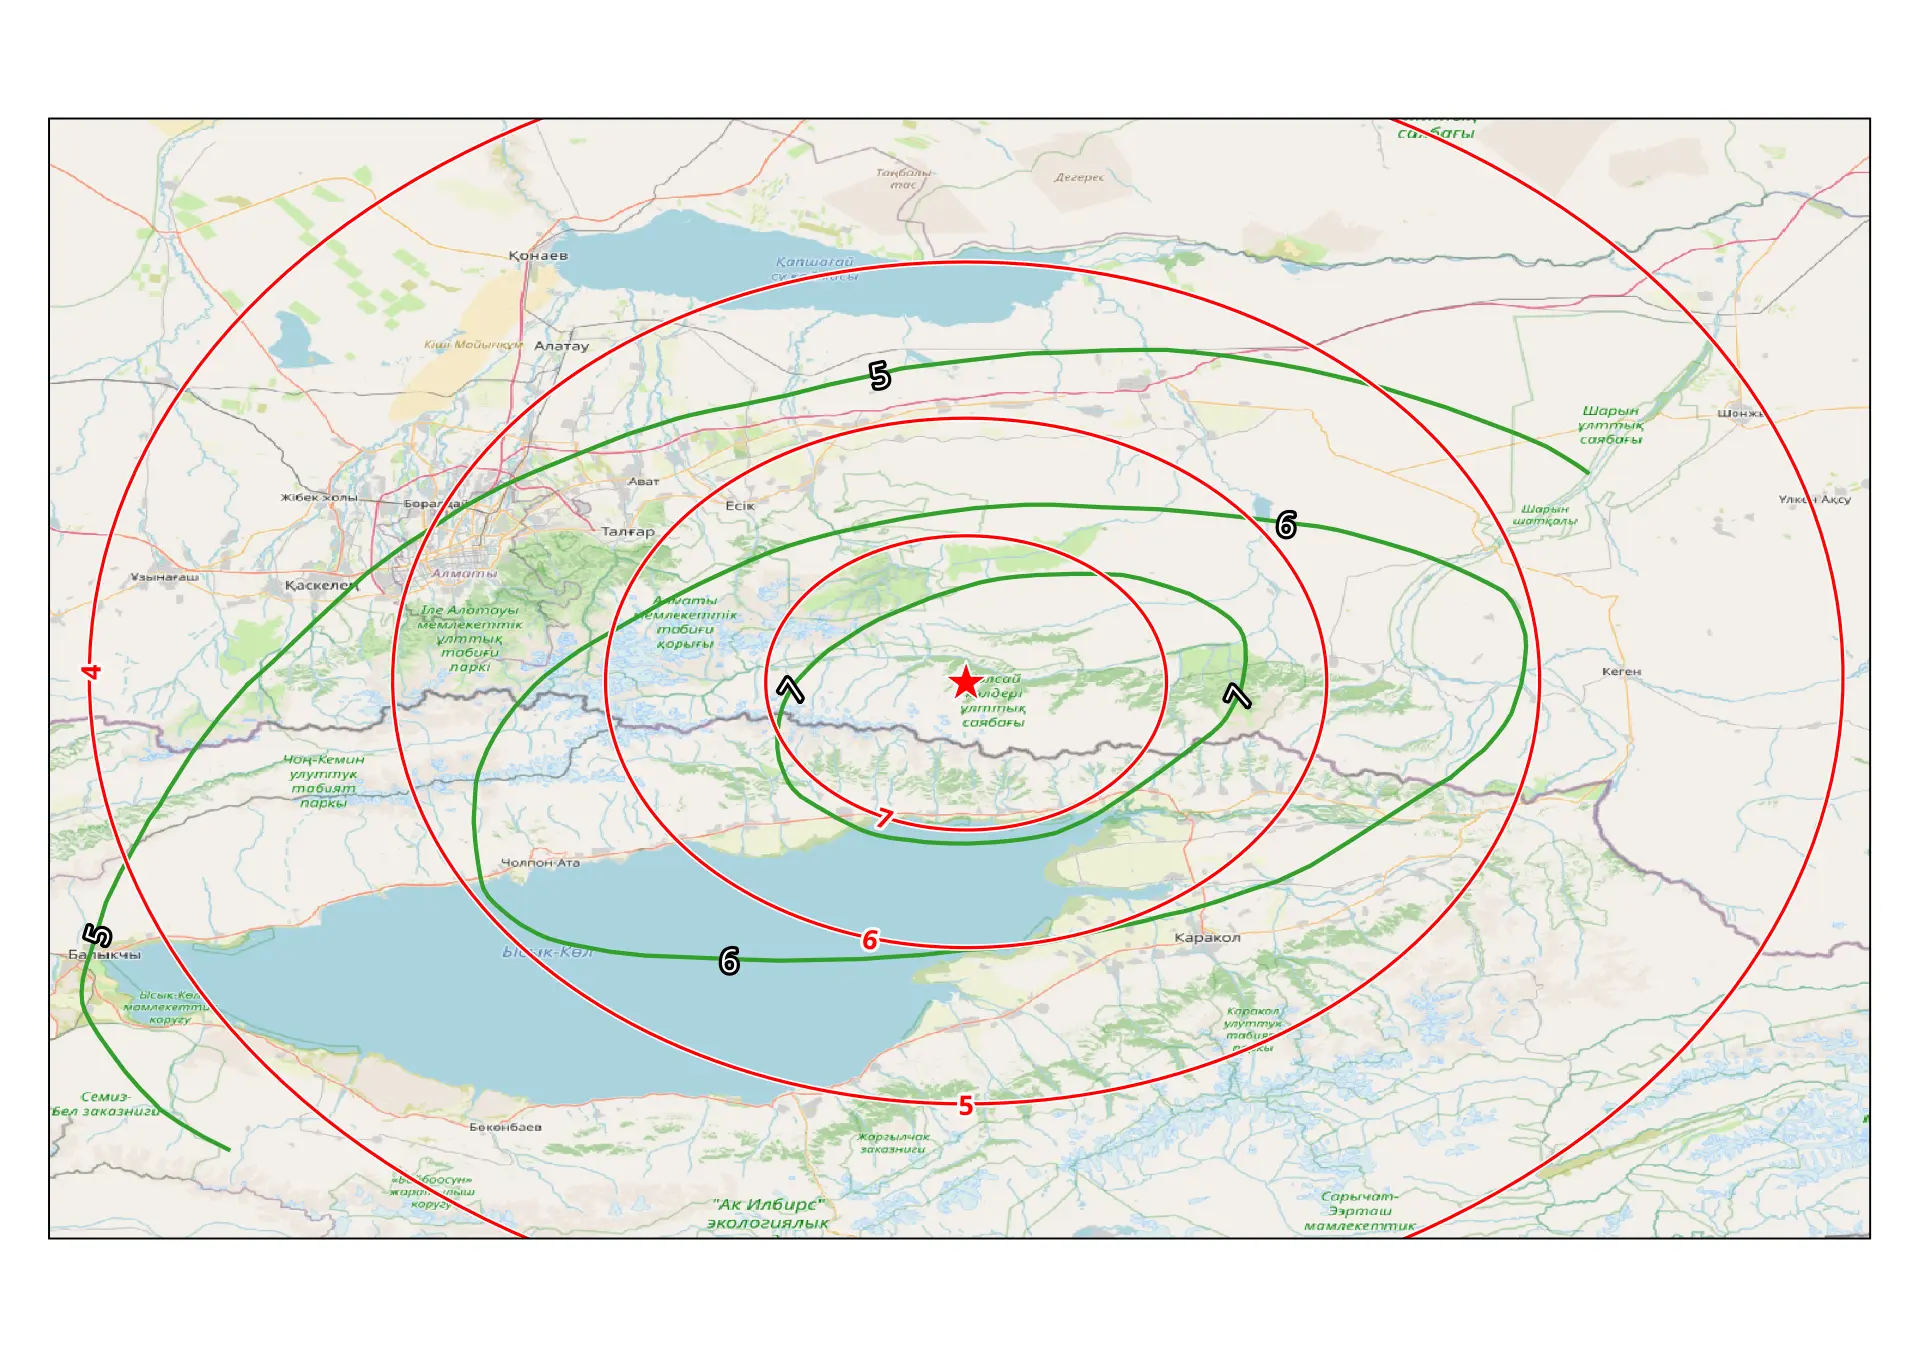
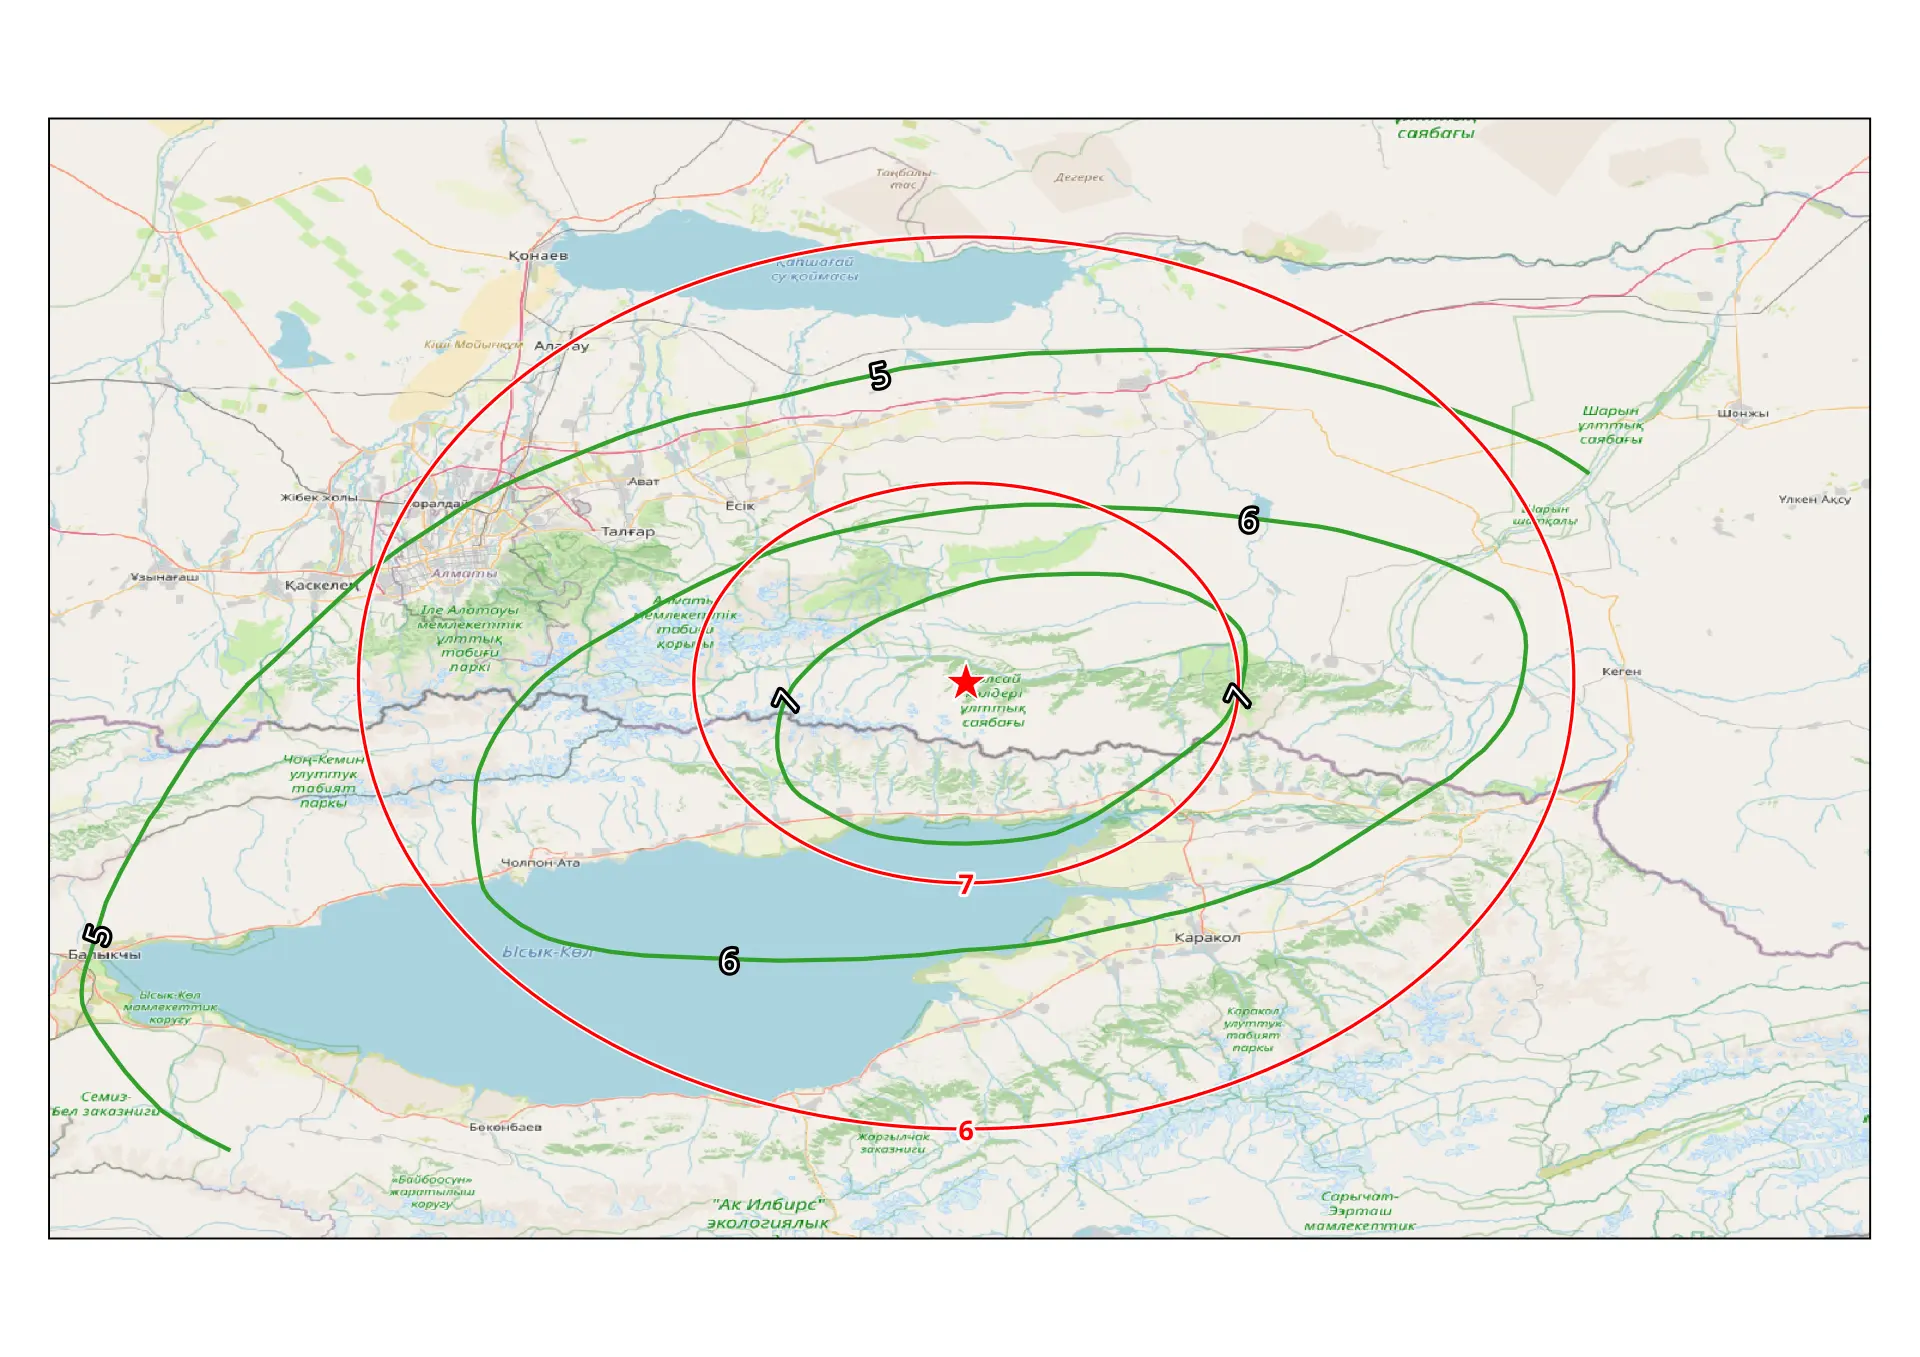
update

diff --git a/index.html b/index.html
@@ -80,10 +80,35 @@ id="средневзвешенный-эпицентр-2-получен-на-ос
 <p><img src="epicenters.webp" /></p>
 <p><br></p>
 <hr />
-<h3 id="изосейсты-построены-по-формуле-н.в.-шебалина.">Изосейсты
-построены по формуле Н.В. Шебалина.</h3>
+<h3 id="изосейсты-построены-на-основе-формулы-н.в.-шебалина.">Изосейсты
+построены на основе формулы Н.В. Шебалина.</h3>
+<p><br></p>
 <h2
-id="i-b-cdot-m---v-cdot-logleftsqrtr2-h2right-c"><math display="block" xmlns="http://www.w3.org/1998/Math/MathML"><semantics><mrow><mi>I</mi><mo>=</mo><mi>b</mi><mo>⋅</mo><mi>M</mi><mo>−</mo><mi>v</mi><mo>⋅</mo><mrow><mi mathvariant="normal">log</mi><mo>&#8289;</mo></mrow><mrow><mo stretchy="true" form="prefix">(</mo><msqrt><mrow><msup><mi>R</mi><mn>2</mn></msup><mo>+</mo><msup><mi>h</mi><mn>2</mn></msup></mrow></msqrt><mo stretchy="true" form="postfix">)</mo></mrow><mo>+</mo><mi>c</mi></mrow><annotation encoding="application/x-tex">I = b \cdot M - v \cdot \log\left(\sqrt{R^2 + h^2}\right) + c</annotation></semantics></math></h2>
+id="i-b-cdot-m---n-cdot-logleftsqrtr2-h2right-c"><math display="block" xmlns="http://www.w3.org/1998/Math/MathML"><semantics><mrow><mi>I</mi><mo>=</mo><mi>b</mi><mo>⋅</mo><mi>M</mi><mo>−</mo><mi>n</mi><mo>⋅</mo><mrow><mi mathvariant="normal">log</mi><mo>&#8289;</mo></mrow><mrow><mo stretchy="true" form="prefix">(</mo><msqrt><mrow><msup><mi>R</mi><mn>2</mn></msup><mo>+</mo><msup><mi>h</mi><mn>2</mn></msup></mrow></msqrt><mo stretchy="true" form="postfix">)</mo></mrow><mo>+</mo><mi>c</mi></mrow><annotation encoding="application/x-tex">I = b \cdot M - n \cdot \log\left(\sqrt{R^2 + h^2}\right) + c</annotation></semantics></math></h2>
+<p><br></p>
+<h3
+id="которое-было-преобрзовано-в-данное-уравнение-для-получения-радиусов-изосест">которое
+было преобрзовано в данное уравнение для получения радиусов изосест</h3>
+<h2
+id="r-sqrtleft10fracb-cdot-m---i-cnright2---h2"><math display="block" xmlns="http://www.w3.org/1998/Math/MathML"><semantics><mrow><mi>r</mi><mo>=</mo><msqrt><mrow><msup><mrow><mo stretchy="true" form="prefix">(</mo><msup><mn>10</mn><mfrac><mrow><mi>b</mi><mo>⋅</mo><mi>M</mi><mo>−</mo><mi>I</mi><mo>+</mo><mi>c</mi></mrow><mi>n</mi></mfrac></msup><mo stretchy="true" form="postfix">)</mo></mrow><mn>2</mn></msup><mo>−</mo><msup><mi>h</mi><mn>2</mn></msup></mrow></msqrt></mrow><annotation encoding="application/x-tex">r = \sqrt{\left(10^{\frac{b \cdot M - I + c}{n}}\right)^2 - h^2}</annotation></semantics></math></h2>
+<p>где <br> <b>r</b> — расстояние по поверхности земли<br> <b>I</b> —
+интенсивность на поверхности<br> <b>h</b> — глубина очага <br> <b>b</b>
+— коэффициент магнитуды <br> <b>c</b> — свободный член <br> <b>n</b> —
+коэффициент затухания (коэффициент Блэйка) <br></p>
+<p>из статьи “Байсорунское землетрясение 12 ноября 1990 г.” были
+получены <br> координаты эпицентра с карты - долгота 77.91489985, широта
+42.99962764 <br> M магнитуда 6.2 <br> h глубина 30.0 <br> n
+(<math display="inline" xmlns="http://www.w3.org/1998/Math/MathML"><semantics><mi>v</mi><annotation encoding="application/x-tex">v</annotation></semantics></math>)
+коэффициента затухания 5.0 <br></p>
+<p>из книги “Новый каталог сильных землетрясений на территории СССР с
+древнейших времен до 1975 г” были взяты (стр 24) b=1.5, v=3.5, c=3.0
+<br></p>
+<h3
+id="скорректированные-коэффициенты-для-сходимости-уравнения-шебалина">Скорректированные
+коэффициенты для сходимости уравнения Шебалина</h3>
+<p>MAG_COEF 1.5 <br></p>
+<p>ATTEN_COEF 5.8 <br></p>
+<p>OFFSET_CONST 6.5 <br></p>
 <p><img src="isoseismal_sheb.webp" /></p>
 <p><br></p>
 <hr />
